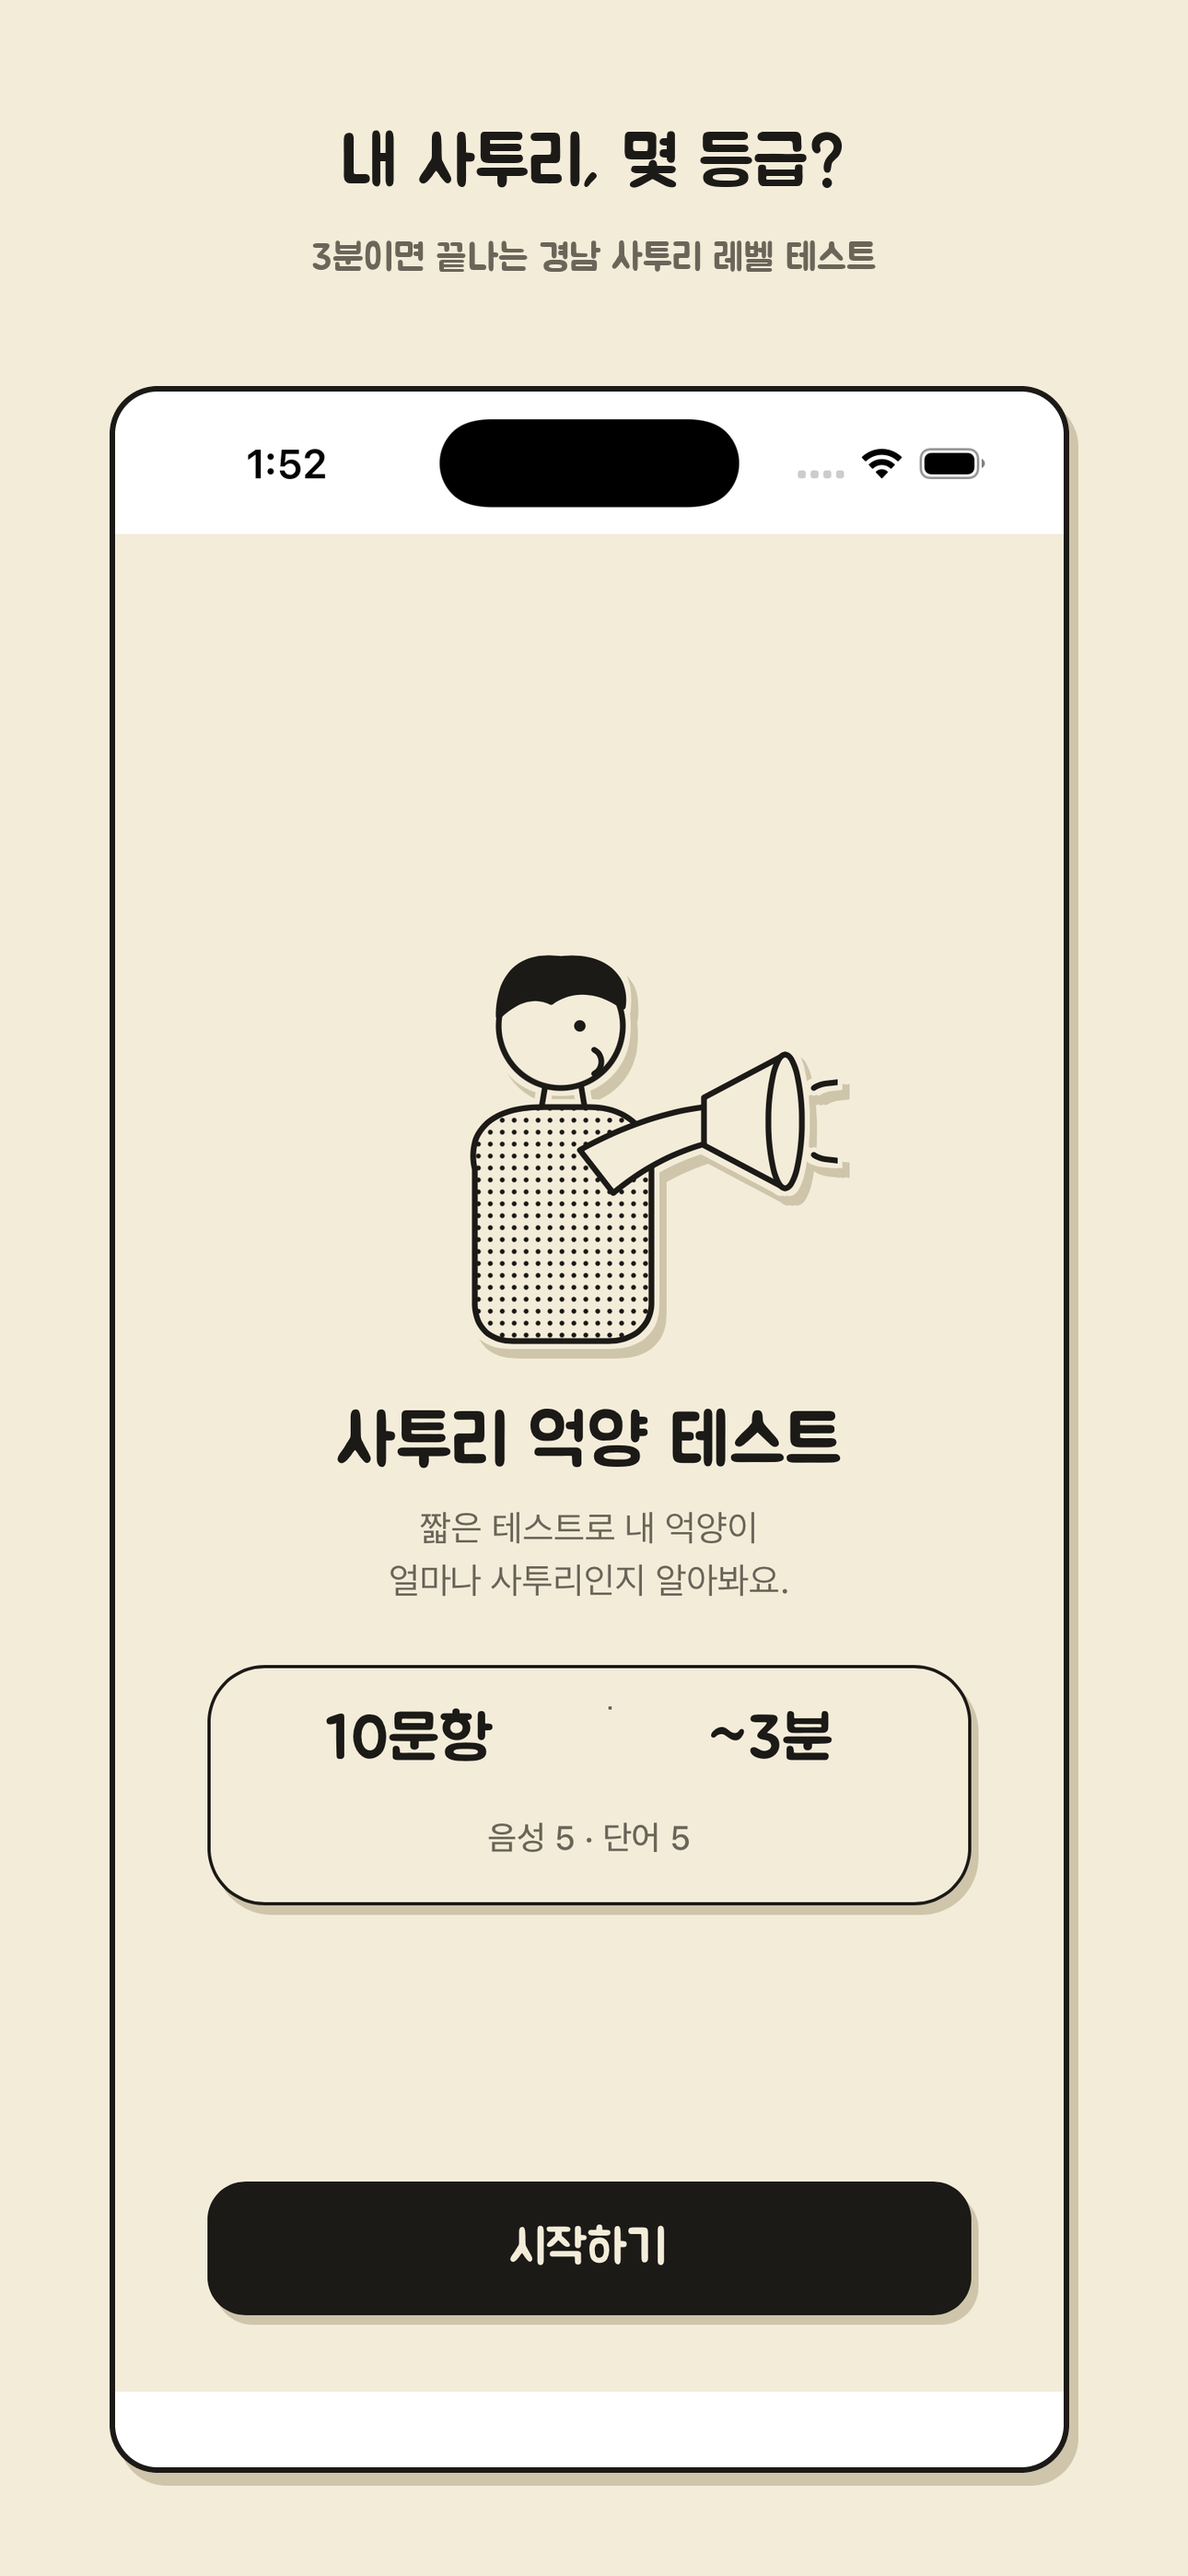
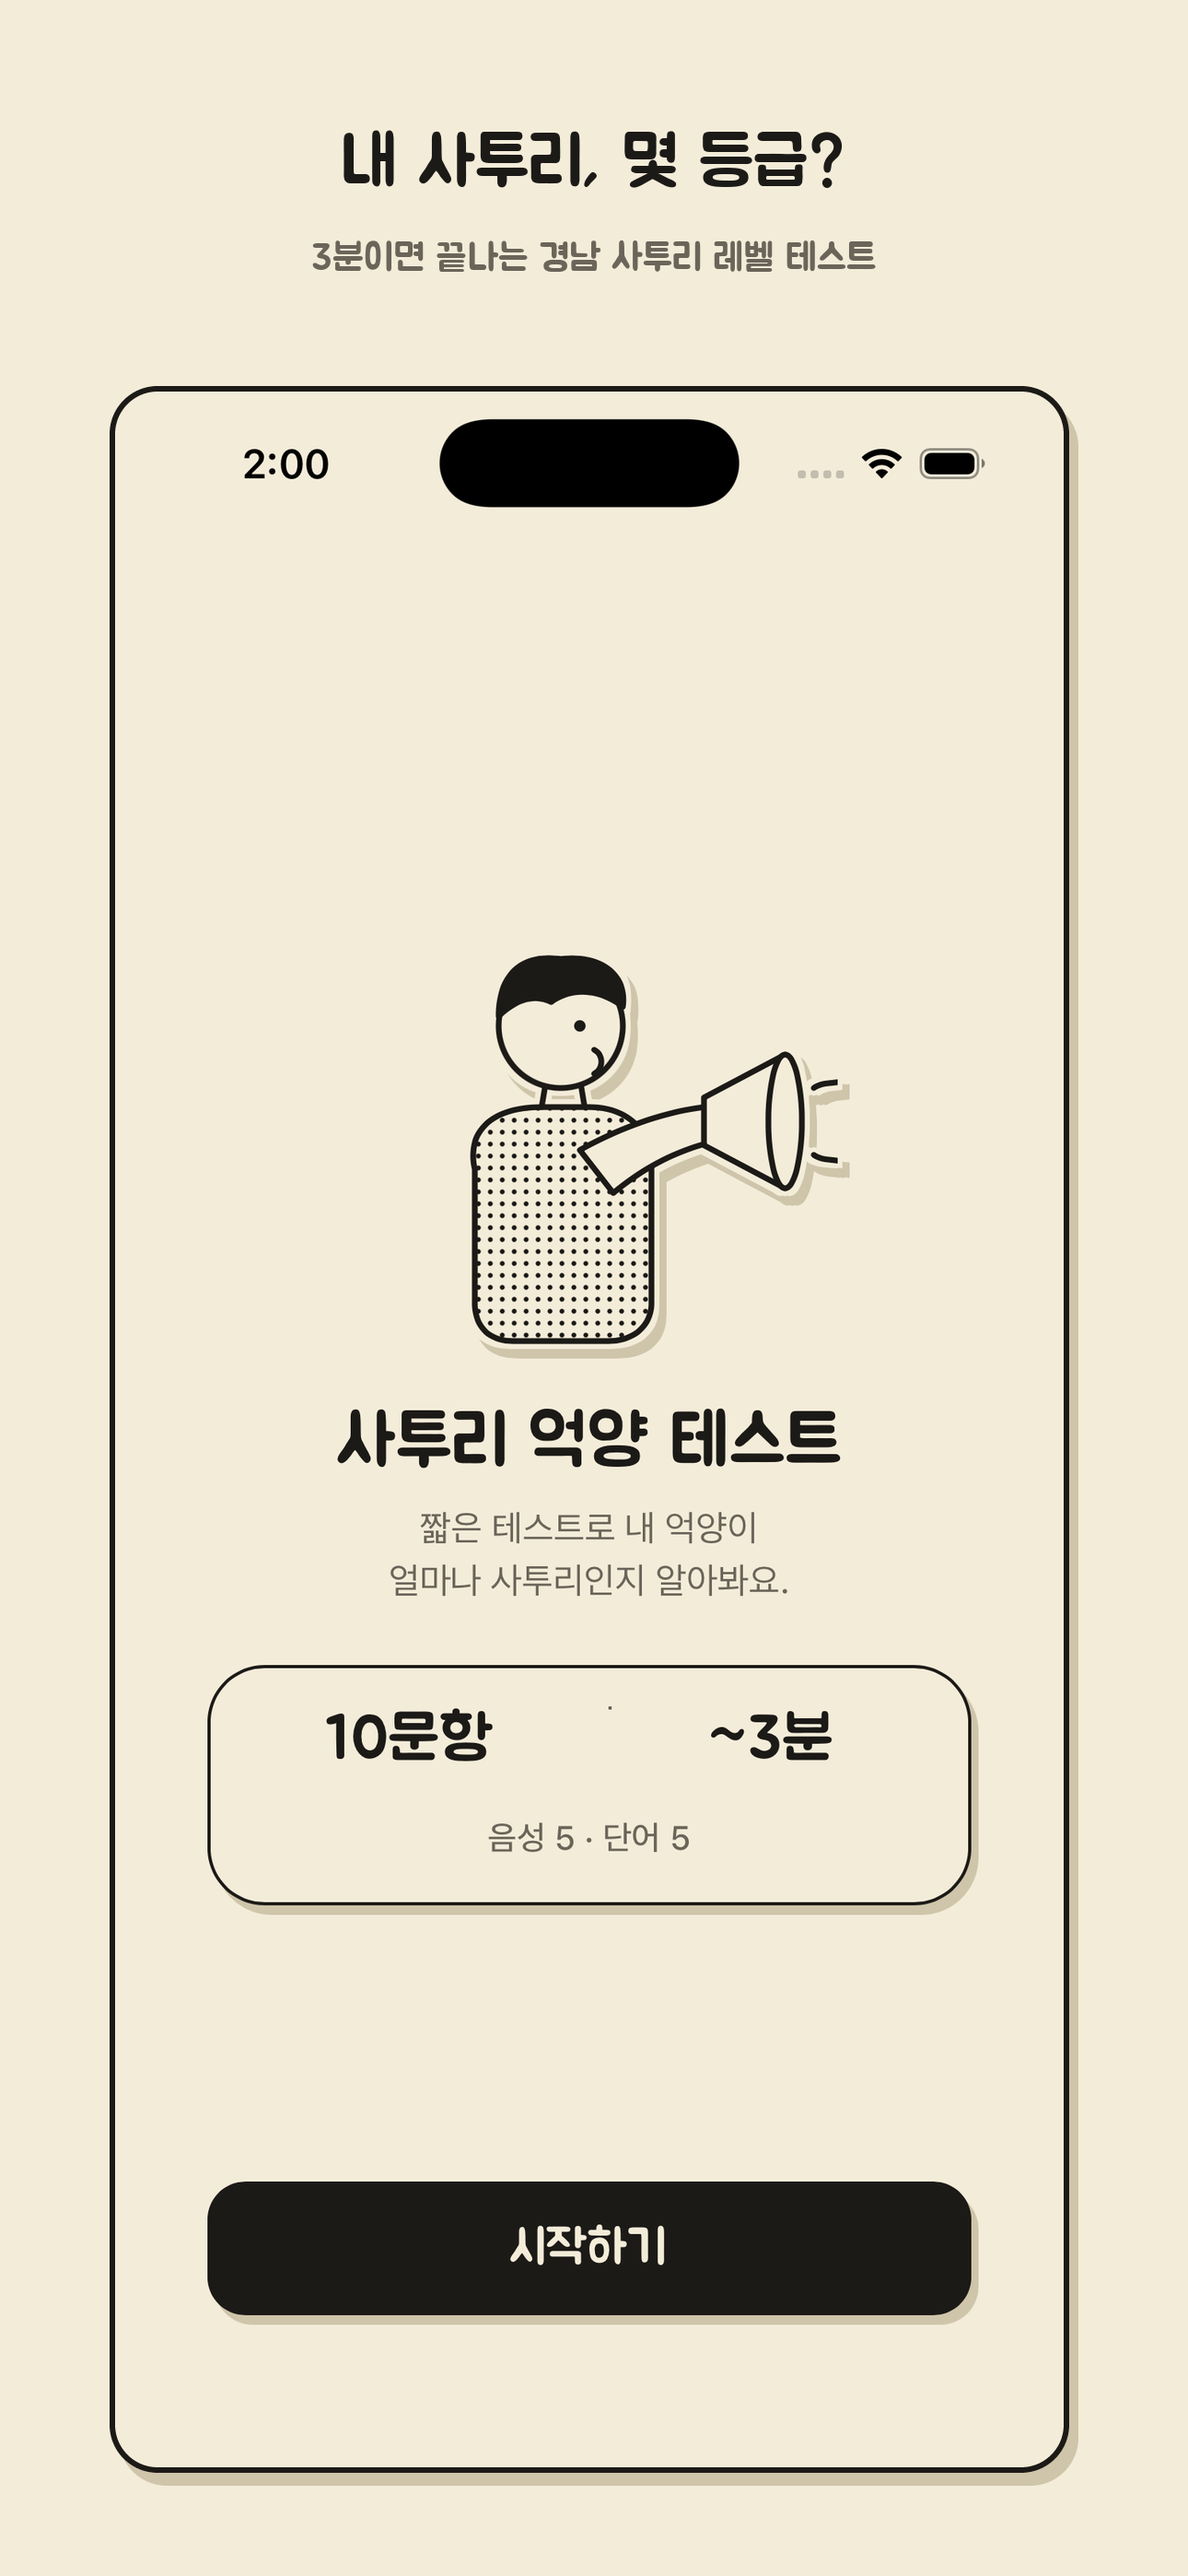
KAN-178 iOS 웹 화면 위아래 흰 띠 수정 - TestFlowView 루트에 크림 배경을 safe area 밖까지, iOS 캡처 3장 재촬영
- TestFlowView: 루트 VStack에 .background(Papercut.cream.ignoresSafeArea()). 내용은 safe area 안, 배경만 화면 끝까지 (Android Scaffold 배경과 같은 자리)
- 증상: 인트로·어휘·결과(웹 화면)에서만 상태 바·홈 인디케이터 영역이 창 기본 흰색으로 남음. 녹음 오버레이·로딩 화면은 각자 ignoresSafeArea 배경이 있어 정상
- raw/ios 01·03·04 재캡처(픽셀 (600,10)·(600,2600) 255→243,236,217), App Store 6.7/6.1 프레임 6장 재생성, Core 400 테스트 통과

Claude-Session: https://claude.ai/code/session_01Nud2Q8pYYmbEKkf6aeyY5Q

Changed region(s): [[0.093, 0.1245, 0.8992, 0.2178], [0.093, 0.9024, 0.8992, 0.9646]]

diff --git a/ios/Accentury/TestFlow/TestFlowView.swift b/ios/Accentury/TestFlow/TestFlowView.swift
@@ -16,6 +16,11 @@ import WebKit
 ///
 /// 업로드 상태 바는 오버레이가 아니라 화면 **아래**를 나눠 갖는다 (안드로이드의 `Column`) —
 /// 녹음 중에도 실패한 업로드의 재시도 통로가 가려지지 않아야 한다.
+///
+/// ## 종이색은 화면 끝까지 간다
+///
+/// 내용(WebView·오버레이·상태 바)은 안전 영역 **안쪽**에 그대로 두고, 배경만
+/// `ignoresSafeArea()`로 상태 바·홈 인디케이터 자리까지 넓힌다 — 자세한 이유는 `body`의 주석.
 struct TestFlowView: View {
 
     @StateObject private var model = TestFlowModel()
@@ -76,6 +81,25 @@ struct TestFlowView: View {
                 )
             }
         }
+        /*
+         * 종이색을 화면 끝까지 민다.
+         *
+         * SwiftUI는 내용을 안전 영역 안쪽에 놓으므로, 이 `VStack`은 상태 바(다이내믹 아일랜드)와
+         * 홈 인디케이터 자리를 비워 둔다. 그 자리를 아무도 칠하지 않으면 창의 기본 배경인 **흰색**이
+         * 그대로 드러나, 웹 화면(인트로·문항·결과)에서만 위아래에 흰 띠가 생긴다. 네이티브 화면들이
+         * 이미 각자 `Papercut.cream.ignoresSafeArea()`를 깔고 있어 녹음 오버레이·로딩 화면에서는
+         * 안 보이던 증상이다.
+         *
+         * 넓히는 것은 **배경뿐이다.** 내용까지 안전 영역 밖으로 내보내면 웹 화면의 첫 줄이
+         * 다이내믹 아일랜드 밑으로 들어가고 하단 버튼이 홈 인디케이터에 물린다. WebView 자체도
+         * 안전 영역 안에 그대로 둔다 — 웹 레이아웃은 인셋을 모르는 채 짜여 있다.
+         *
+         * 안드로이드의 같은 자리는 `MainActivity`의 `Scaffold`다 (KAN-161 4단계): 창은
+         * `enableEdgeToEdge()`로 시스템 바 밑까지 열어 두고, 크림
+         * (`colorScheme.background`)이 창 전체를 칠하며, 내용은 `innerPadding`으로 인셋
+         * 안쪽에 앉는다. 첫 프레임의 시스템 바 아이콘 색은 `themes.xml`이 맡는다.
+         */
+        .background(Papercut.cream.ignoresSafeArea())
         /*
          * 업로드가 어느 세션으로 나가는지는 매니저를 만드는 순간 정해진다 (KAN-34). 세션이
          * 바뀌면 새 매니저를 받아 끝난 응시의 업로드가 새 세션에 섞이지 않는다.
